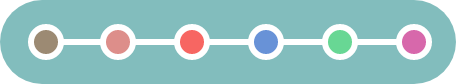
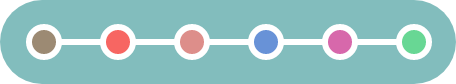
review

diff --git a/CAchute/index.html b/CAchute/index.html
@@ -167,13 +167,13 @@
                                         </a>
                                     </div>
                                     <div class="modal-body">
-                                        <a onclick="addCheck6();pauseVideo()" role="button" data-bs-dismiss="modal"
-                                            data-bs-toggle="modal" data-bs-target="#cardModal06"
+                                        <a onclick="addCheck5();pauseVideo()" role="button" data-bs-dismiss="modal"
+                                            data-bs-toggle="modal" data-bs-target="#cardModal05"
                                             class="arrow-left arrow">
                                             <img src="./assets/img/arrow.png" alt="">
                                         </a>
-                                        <a onclick="addCheck2();pauseVideo()" role="button" data-bs-dismiss="modal"
-                                            data-bs-toggle="modal" data-bs-target="#cardModal02"
+                                        <a onclick="addCheck3();pauseVideo()" role="button" data-bs-dismiss="modal"
+                                            data-bs-toggle="modal" data-bs-target="#cardModal03"
                                             class="arrow-right arrow">
                                             <img src="./assets/img/arrow02.png" alt="">
                                         </a>
@@ -249,13 +249,13 @@
                                             <img src="./assets/img/icon-close-small.svg" alt=""></a>
                                     </div>
                                     <div class="modal-body">
-                                        <a onclick="addCheck2();pauseVideo()" role="button" data-bs-dismiss="modal"
-                                            data-bs-toggle="modal" data-bs-target="#cardModal02"
+                                        <a onclick="addCheck();pauseVideo()" role="button" data-bs-dismiss="modal"
+                                            data-bs-toggle="modal" data-bs-target="#cardModal01"
                                             class="arrow-left arrow">
                                             <img src="./assets/img/arrow.png" alt="">
                                         </a>
-                                        <a onclick="addCheck4();pauseVideo()" role="button" data-bs-dismiss="modal"
-                                            data-bs-toggle="modal" data-bs-target="#cardModal04"
+                                        <a onclick="addCheck2();pauseVideo()" role="button" data-bs-dismiss="modal"
+                                            data-bs-toggle="modal" data-bs-target="#cardModal02"
                                             class="arrow-right arrow">
                                             <img src="./assets/img/arrow02.png" alt="">
                                         </a>
@@ -331,13 +331,13 @@
                                     </div>
 
                                     <div class="modal-body">
-                                        <a onclick="addCheck();pauseVideo()" role="button" data-bs-dismiss="modal"
-                                            data-bs-toggle="modal" data-bs-target="#cardModal01"
+                                        <a onclick="addCheck3();pauseVideo()" role="button" data-bs-dismiss="modal"
+                                            data-bs-toggle="modal" data-bs-target="#cardModal03"
                                             class="arrow-left arrow">
                                             <img src="./assets/img/arrow.png" alt="">
                                         </a>
-                                        <a onclick="addCheck3();pauseVideo()" role="button" data-bs-dismiss="modal"
-                                            data-bs-toggle="modal" data-bs-target="#cardModal03"
+                                        <a onclick="addCheck4();pauseVideo()" role="button" data-bs-dismiss="modal"
+                                            data-bs-toggle="modal" data-bs-target="#cardModal04"
                                             class="arrow-right arrow">
                                             <img src="./assets/img/arrow02.png" alt="">
                                         </a>
@@ -421,13 +421,13 @@
                                             <img src="./assets/img/icon-close-small.svg" alt=""></a>
                                     </div>
                                     <div class="modal-body">
-                                        <a onclick="addCheck3();pauseVideo()" role="button" data-bs-dismiss="modal"
-                                            data-bs-toggle="modal" data-bs-target="#cardModal03"
+                                        <a onclick="addCheck2();pauseVideo()" role="button" data-bs-dismiss="modal"
+                                            data-bs-toggle="modal" data-bs-target="#cardModal02"
                                             class="arrow-left arrow">
                                             <img src="./assets/img/arrow.png" alt="">
                                         </a>
-                                        <a onclick="addCheck5();pauseVideo()" role="button" data-bs-dismiss="modal"
-                                            data-bs-toggle="modal" data-bs-target="#cardModal05"
+                                        <a onclick="addCheck6();pauseVideo()" role="button" data-bs-dismiss="modal"
+                                            data-bs-toggle="modal" data-bs-target="#cardModal06"
                                             class="arrow-right arrow">
                                             <img src="./assets/img/arrow02.png" alt="">
                                         </a>
@@ -505,13 +505,13 @@
                                             <img src="./assets/img/icon-close-small.svg" alt=""></a>
                                     </div>
                                     <div class="modal-body">
-                                        <a onclick="addCheck4();pauseVideo()" role="button" data-bs-dismiss="modal"
-                                            data-bs-toggle="modal" data-bs-target="#cardModal04"
+                                        <a onclick="addCheck6();pauseVideo()" role="button" data-bs-dismiss="modal"
+                                            data-bs-toggle="modal" data-bs-target="#cardModal06"
                                             class="arrow-left arrow">
                                             <img src="./assets/img/arrow.png" alt="">
                                         </a>
-                                        <a onclick="addCheck6();pauseVideo()" role="button" data-bs-dismiss="modal"
-                                            data-bs-toggle="modal" data-bs-target="#cardModal06"
+                                        <a onclick="addCheck();pauseVideo()" role="button" data-bs-dismiss="modal"
+                                            data-bs-toggle="modal" data-bs-target="#cardModal01"
                                             class="arrow-right arrow">
                                             <img src="./assets/img/arrow02.png" alt="">
                                         </a>
@@ -585,13 +585,13 @@
                                             <img src="./assets/img/icon-close-small.svg" alt=""></a>
                                     </div>
                                     <div class="modal-body">
-                                        <a onclick="addCheck5();pauseVideo()" role="button" data-bs-dismiss="modal"
-                                            data-bs-toggle="modal" data-bs-target="#cardModal05"
+                                        <a onclick="addCheck4();pauseVideo()" role="button" data-bs-dismiss="modal"
+                                            data-bs-toggle="modal" data-bs-target="#cardModal04"
                                             class="arrow-left arrow">
                                             <img src="./assets/img/arrow.png" alt="">
                                         </a>
-                                        <a onclick="addCheck();pauseVideo()" role="button" data-bs-dismiss="modal"
-                                            data-bs-toggle="modal" data-bs-target="#cardModal01"
+                                        <a onclick="addCheck5();pauseVideo()" role="button" data-bs-dismiss="modal"
+                                            data-bs-toggle="modal" data-bs-target="#cardModal05"
                                             class="arrow-right arrow">
                                             <img src="./assets/img/arrow02.png" alt="">
                                         </a>
@@ -787,27 +787,6 @@
                                             <div class="form-check col-6 col-lg-3 d-flex align-items-center justify-content-center">
                                                 <input id="vigilant_toutafait"class="form-check-input me-1 me-md-2 me-lg-3" type="radio" name="vigilant" value="Tout à fait">
                                                 <label class="form-check-label">Tout à fait</label>
-                                            </div>
-                                        </div>
-                                        <p>Quels autres thèmes aimeriez-vous qu’on aborde ? 
-                                            Plusieurs choix possibles.
-                                        </p>
-                                        <div class="row mb-5">
-                                            <div class="form-check col-6 col-lg-3 d-flex align-items-center justify-content-center">
-                                                <input id="theme_1" class="form-check-input me-1 me-md-2 me-lg-3" type="checkbox" value="Feu de récoltes" name="theme">
-                                                <label class="form-check-label">Thème1</label>
-                                            </div>
-                                            <div class="form-check col-6 col-lg-3 d-flex align-items-center justify-content-center">
-                                                <input id="theme_2" class="form-check-input me-1 me-md-2 me-lg-3" type="checkbox" value="Feu de récoltes" name="theme">
-                                                <label class="form-check-label">Thème2</label>
-                                            </div>
-                                            <div class="form-check col-6 col-lg-3 d-flex align-items-center justify-content-center">
-                                                <input id="theme_3" class="form-check-input me-1 me-md-2 me-lg-3" type="checkbox" value="Feu de récoltes" name="theme">
-                                                <label class="form-check-label">Thème3</label>
-                                            </div>
-                                            <div class="form-check col-6 col-lg-3 d-flex align-items-center justify-content-center">
-                                                <input id="theme_4" class="form-check-input me-1 me-md-2 me-lg-3" type="checkbox" value="Feu de récoltes" name="theme">
-                                                <label class="form-check-label">Thème4</label>
                                             </div>
                                         </div>
                                         <div class="my-5 text-center">

diff --git a/CAchute/assets/scss/main.scss b/CAchute/assets/scss/main.scss
@@ -112,19 +112,19 @@ p {
             left: 4%;
         }
         #check-icon-second {
-            left: 20%;
+            left: 36%;
         }
         #check-icon-third {
-            left: 36%;
+            left: 20%;
         }
         #check-icon-fourth {
             left: 52%;
         }
         #check-icon-fifth {
-            left: 69%;
+            left: 85%;
         }
         #check-icon-sixth {
-            left: 85%;
+            left: 69%;
         }
     }
 }

diff --git a/CAchute/assets/scss/main.css b/CAchute/assets/scss/main.css
@@ -111,19 +111,19 @@ p {
   left: 4%;
 }
 .step .container-line #check-icon-second {
-  left: 20%;
+  left: 36%;
 }
 .step .container-line #check-icon-third {
-  left: 36%;
+  left: 20%;
 }
 .step .container-line #check-icon-fourth {
   left: 52%;
 }
 .step .container-line #check-icon-fifth {
-  left: 69%;
+  left: 85%;
 }
 .step .container-line #check-icon-sixth {
-  left: 85%;
+  left: 69%;
 }
 
 .first {
